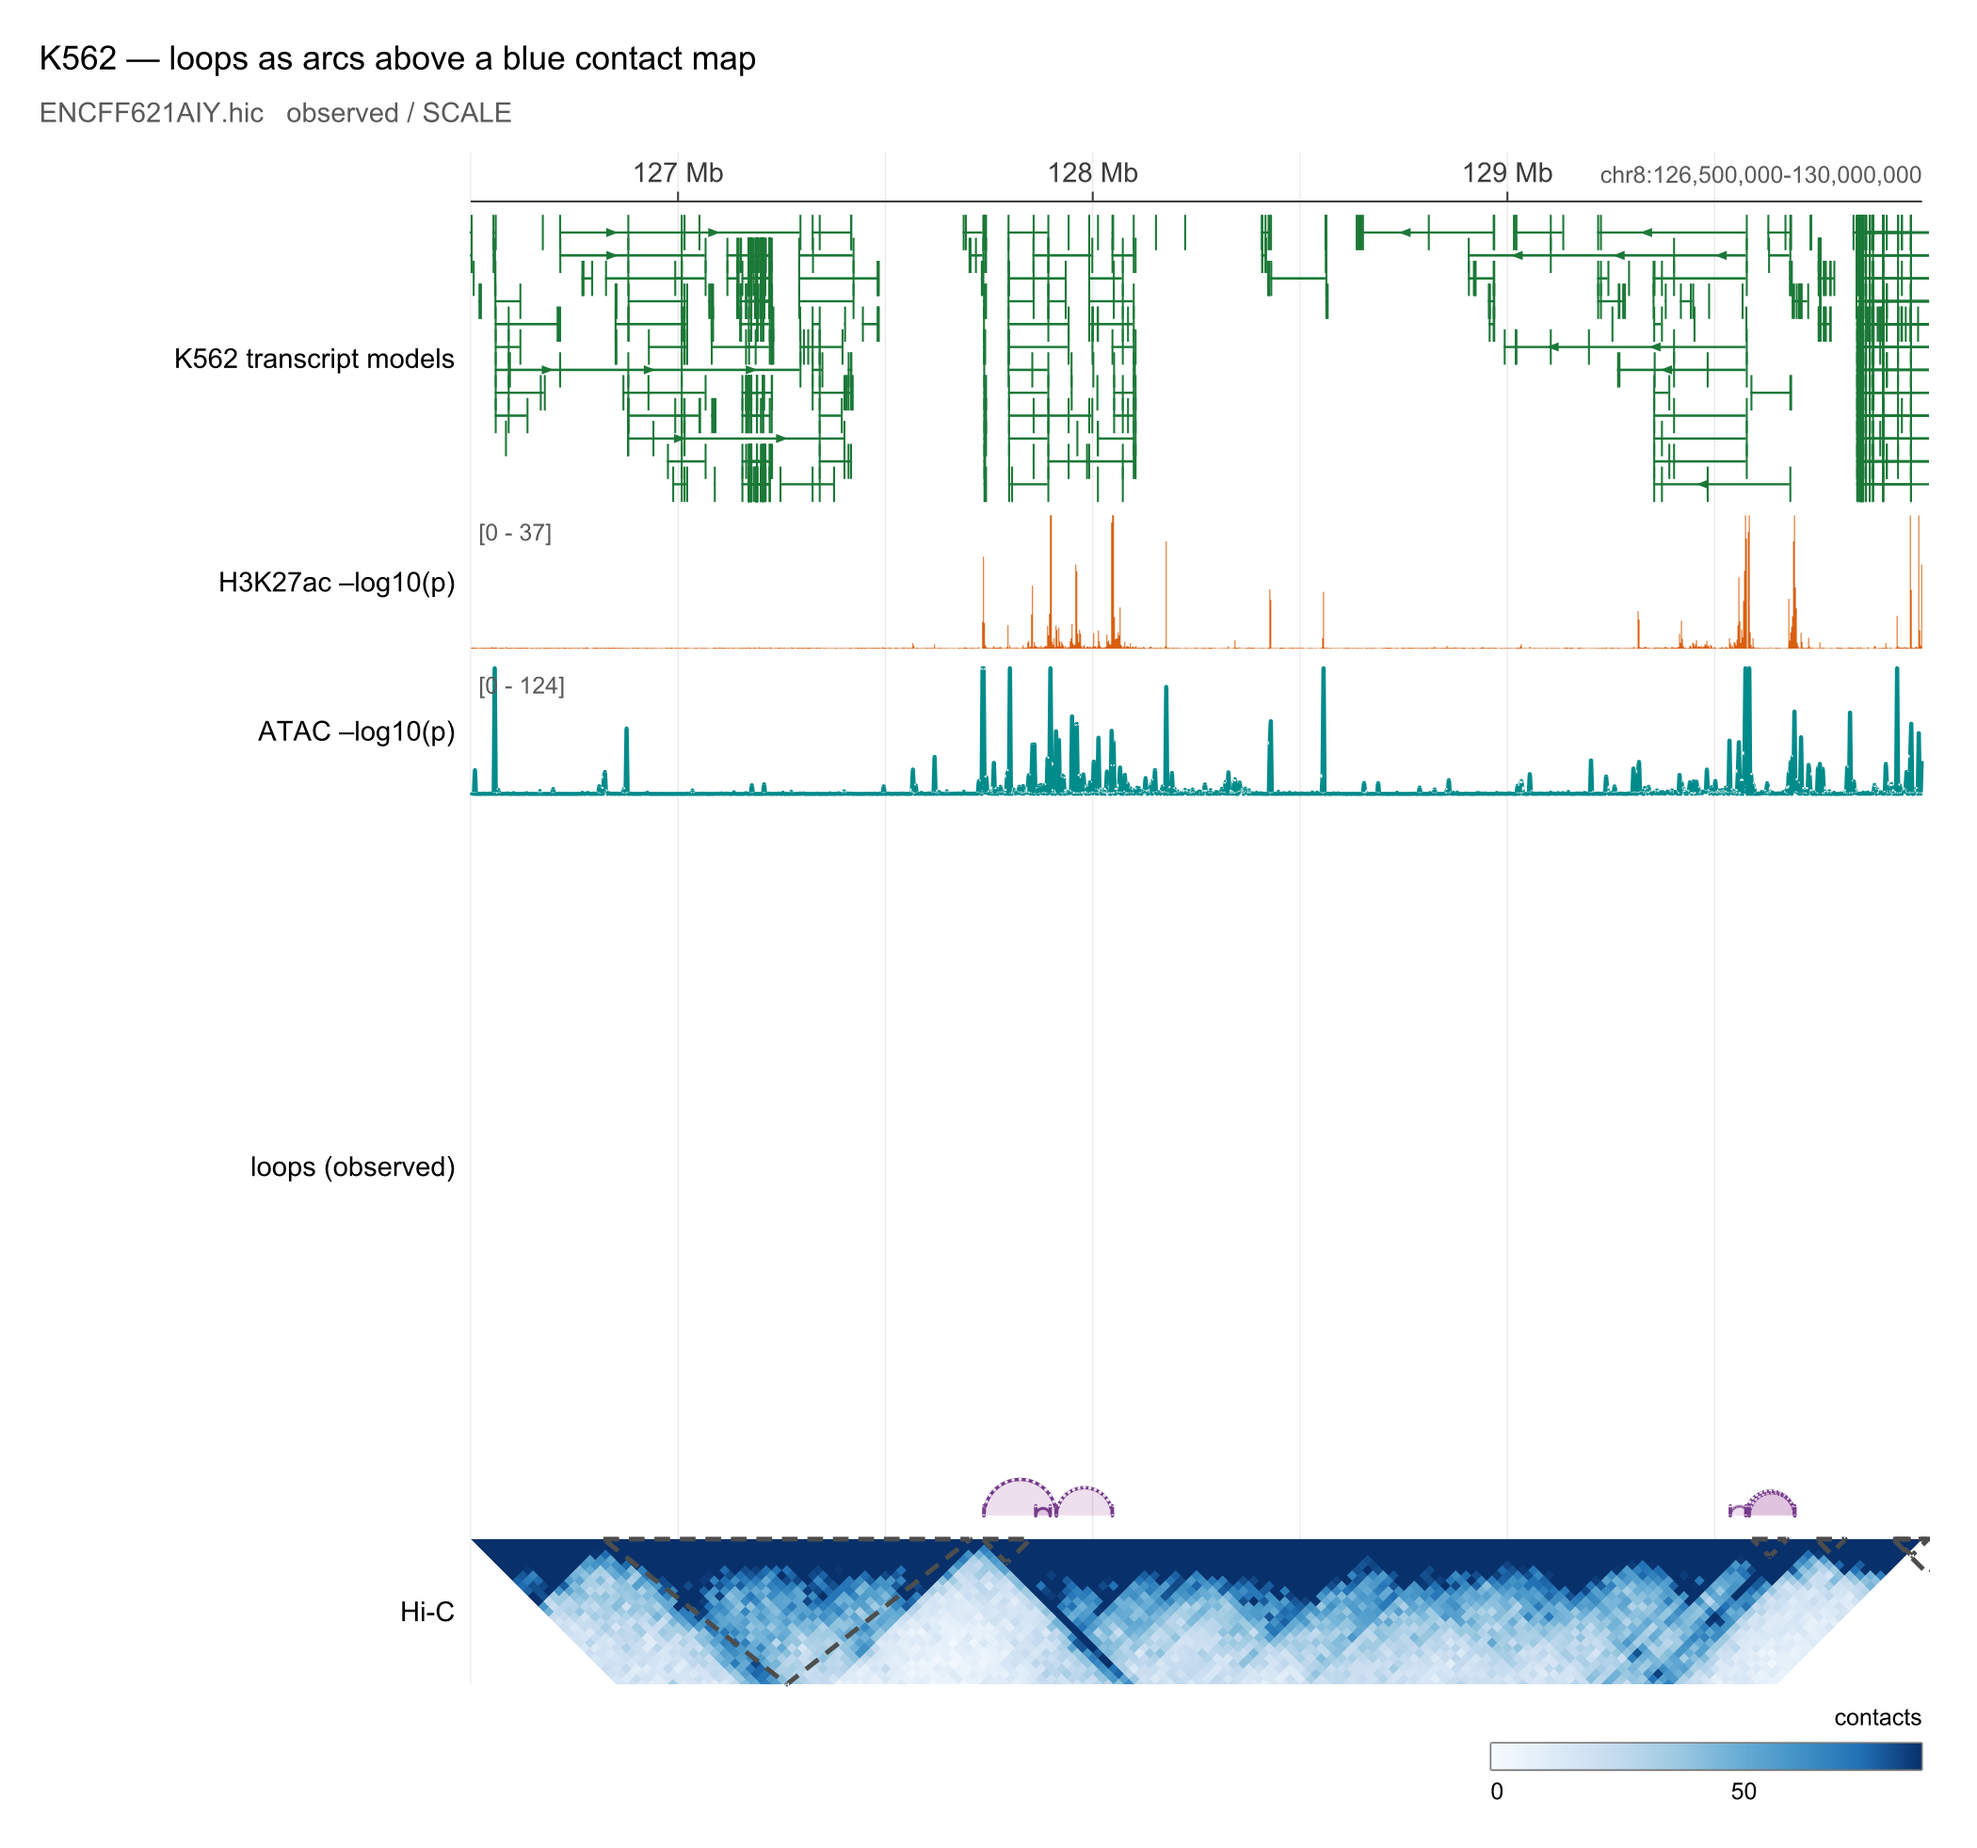
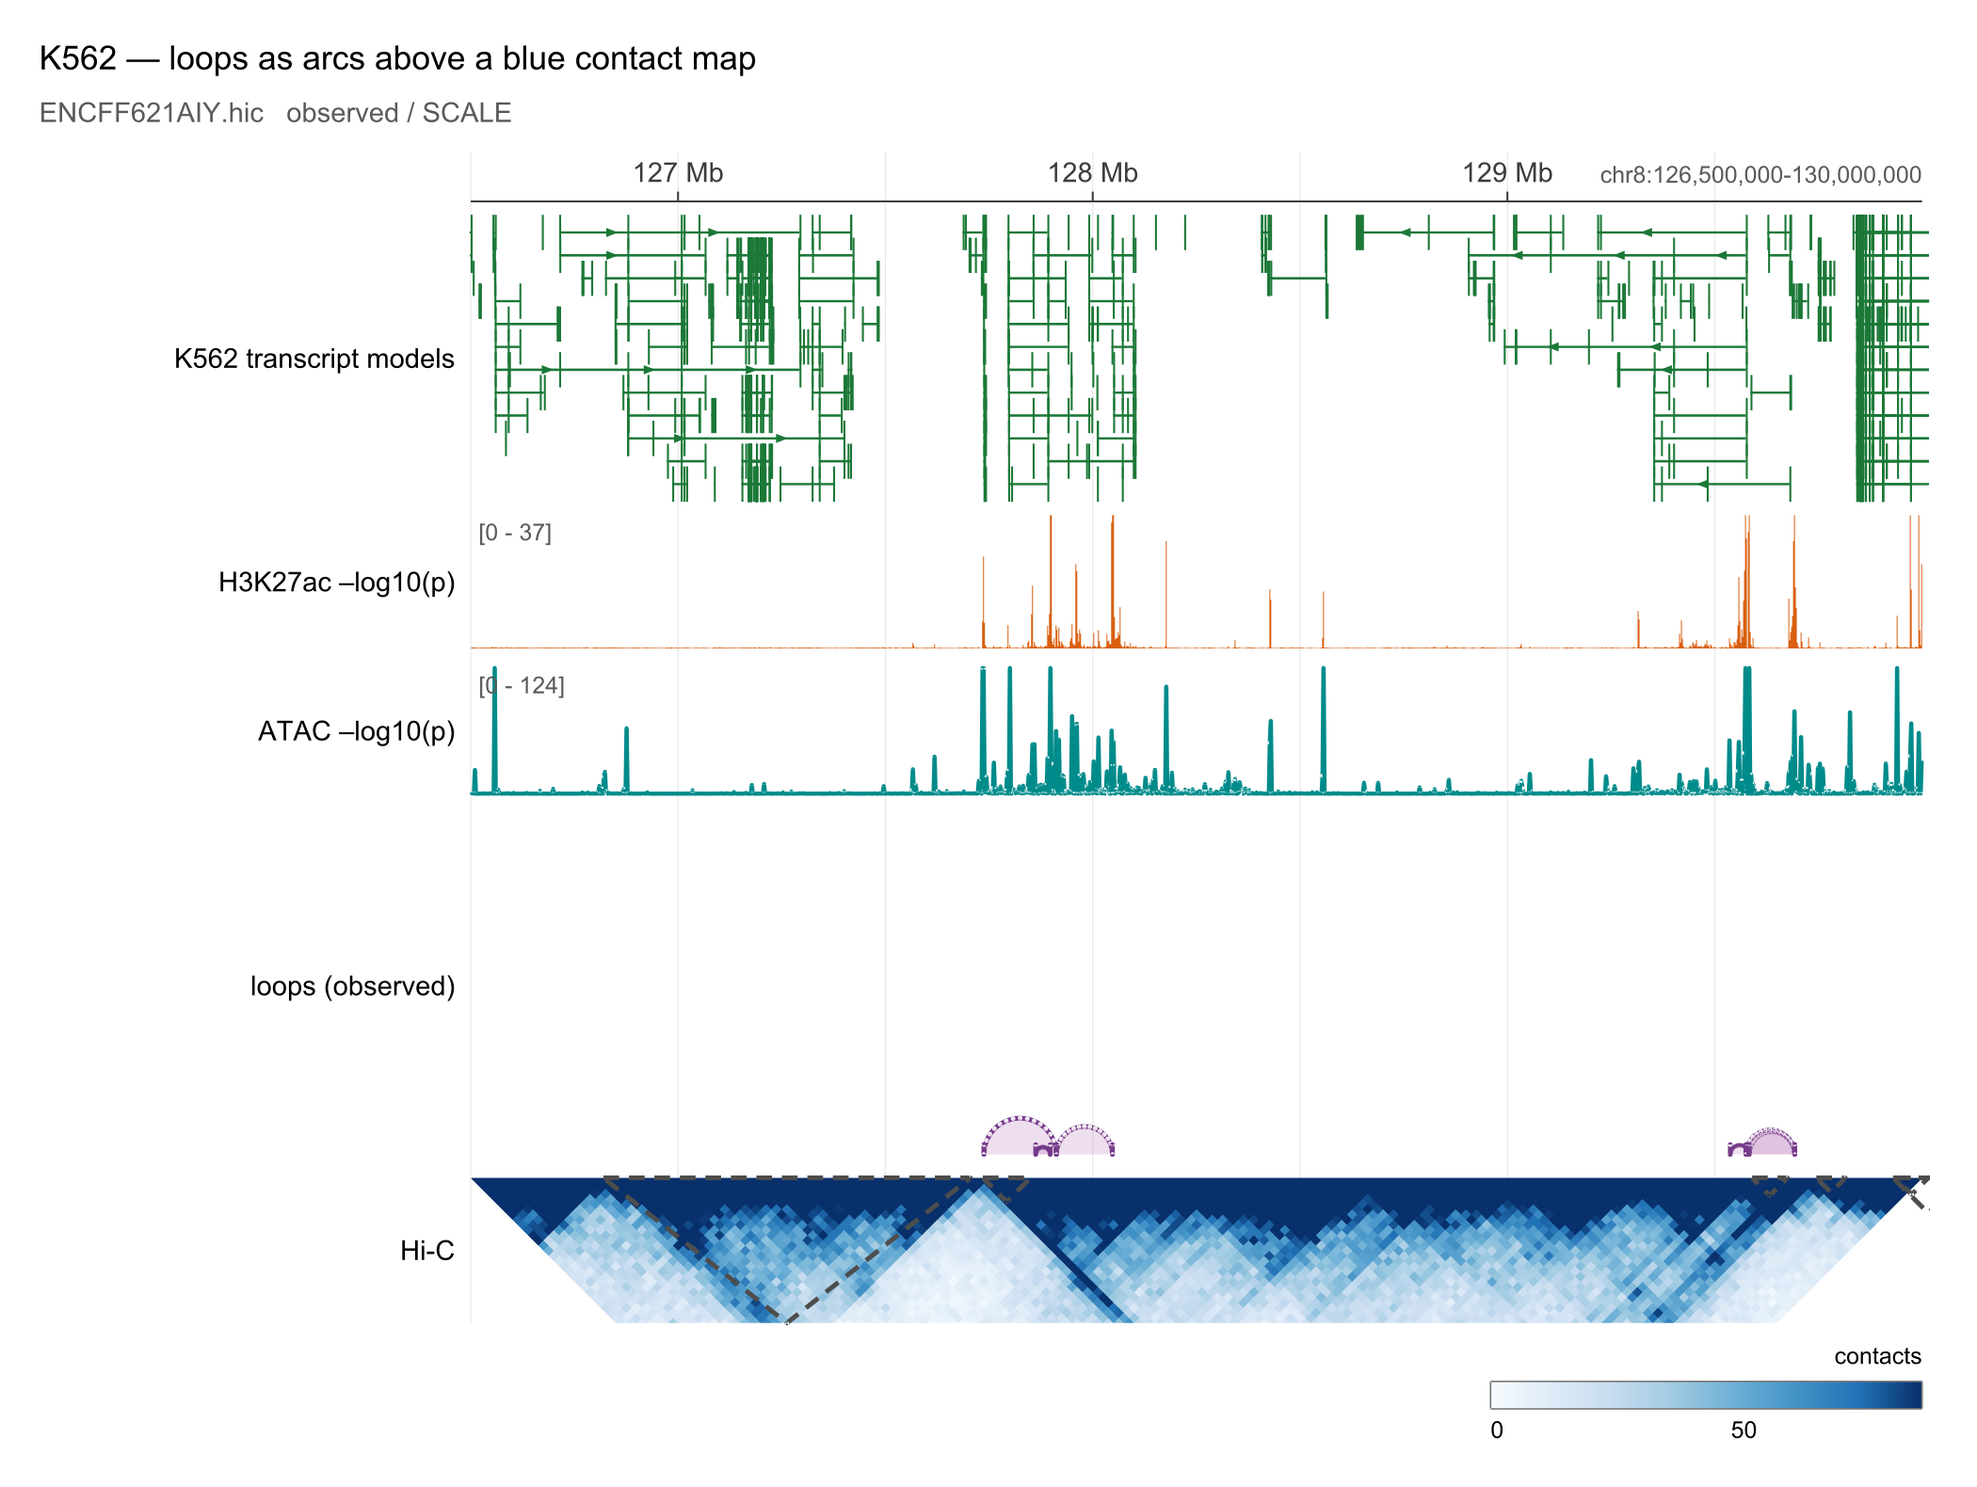
update images

diff --git a/examples/gallery/README.md b/examples/gallery/README.md
@@ -226,7 +226,7 @@ a dashed 2D overlay on the contact map.
     --style area --color '#D95F0E' --percentile 0.995 \
   "$ATAC_SIGNAL" --name 'ATAC –log10(p)' --height 32 \
     --style line --color '#008B8B' --line-width 1.1 --percentile 0.995 \
-  "$LOOPS" --style arc --name 'loops (observed)' --height 88 \
+  "$LOOPS" --style arc --name 'loops (observed)' --height 40 \
     --score-filter-min 60 --color '#753A8A' --line-width 1.2 \
     --fill '#7A017720' \
   "$DOMAINS" --style domain --side above --color '#4D4D4D' --dashed \
